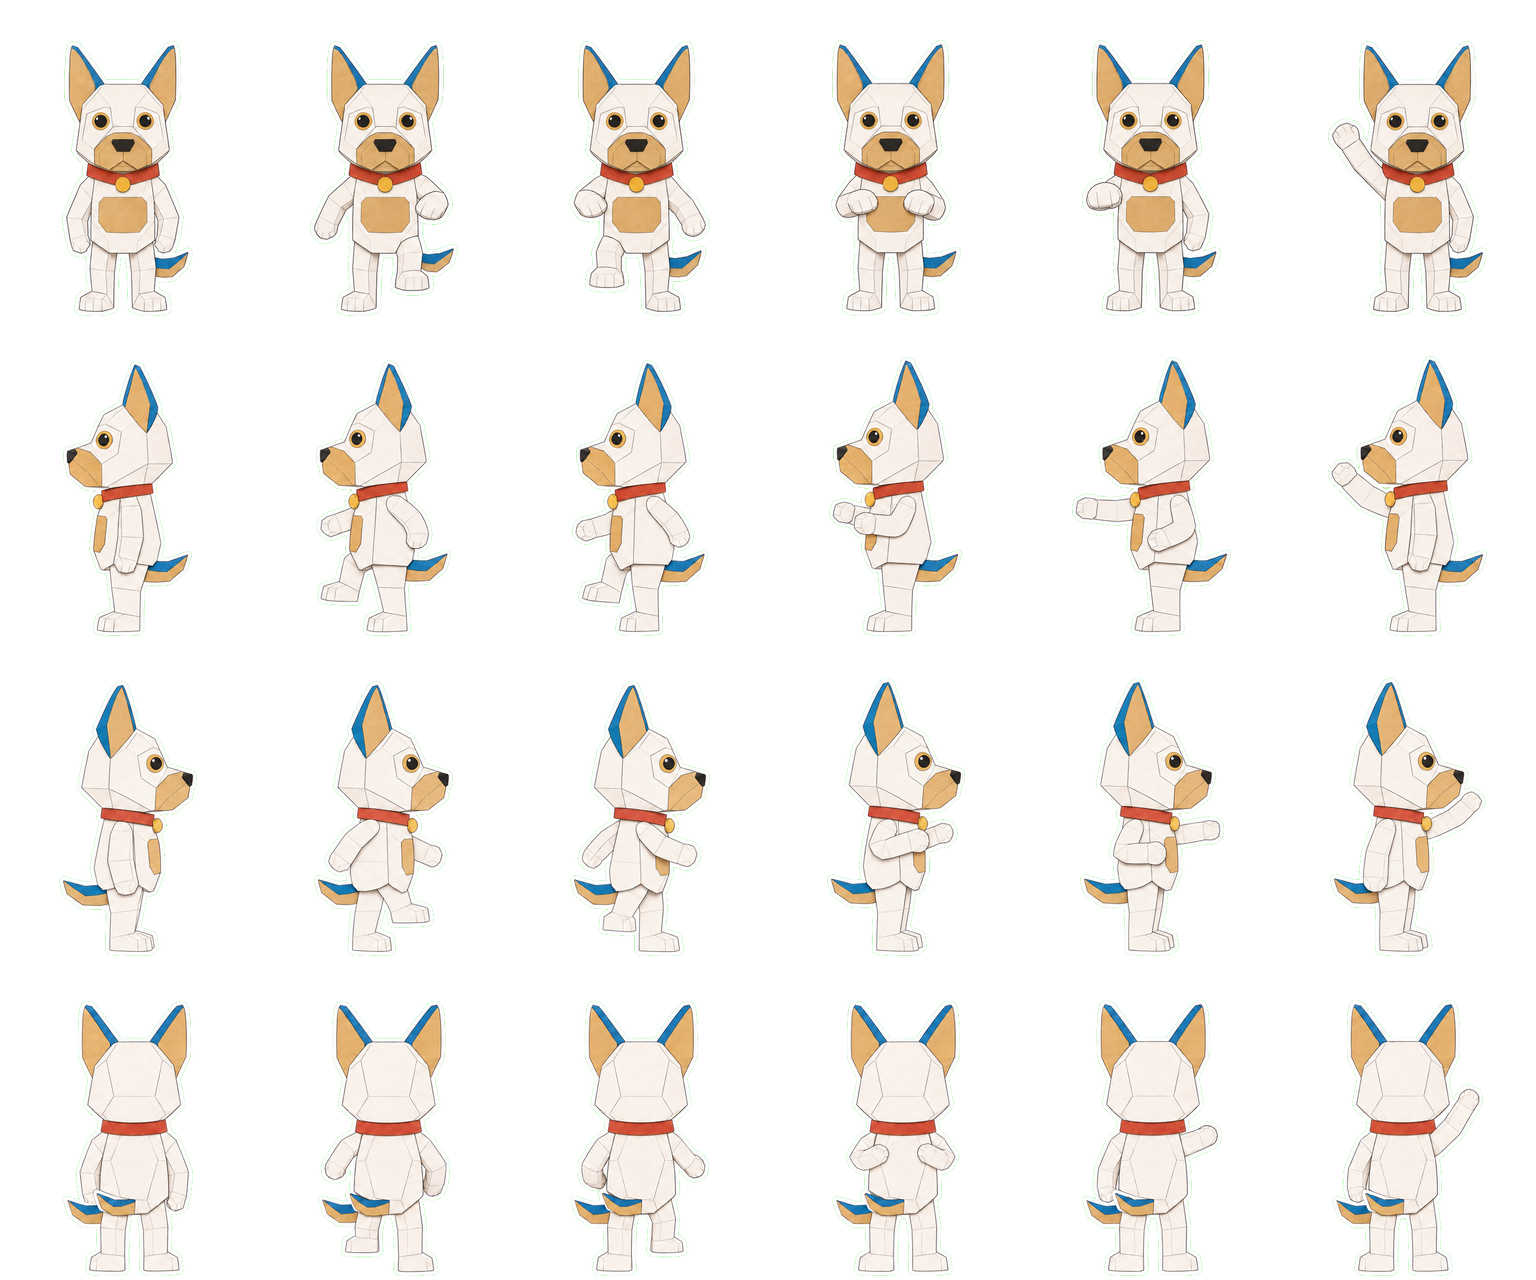
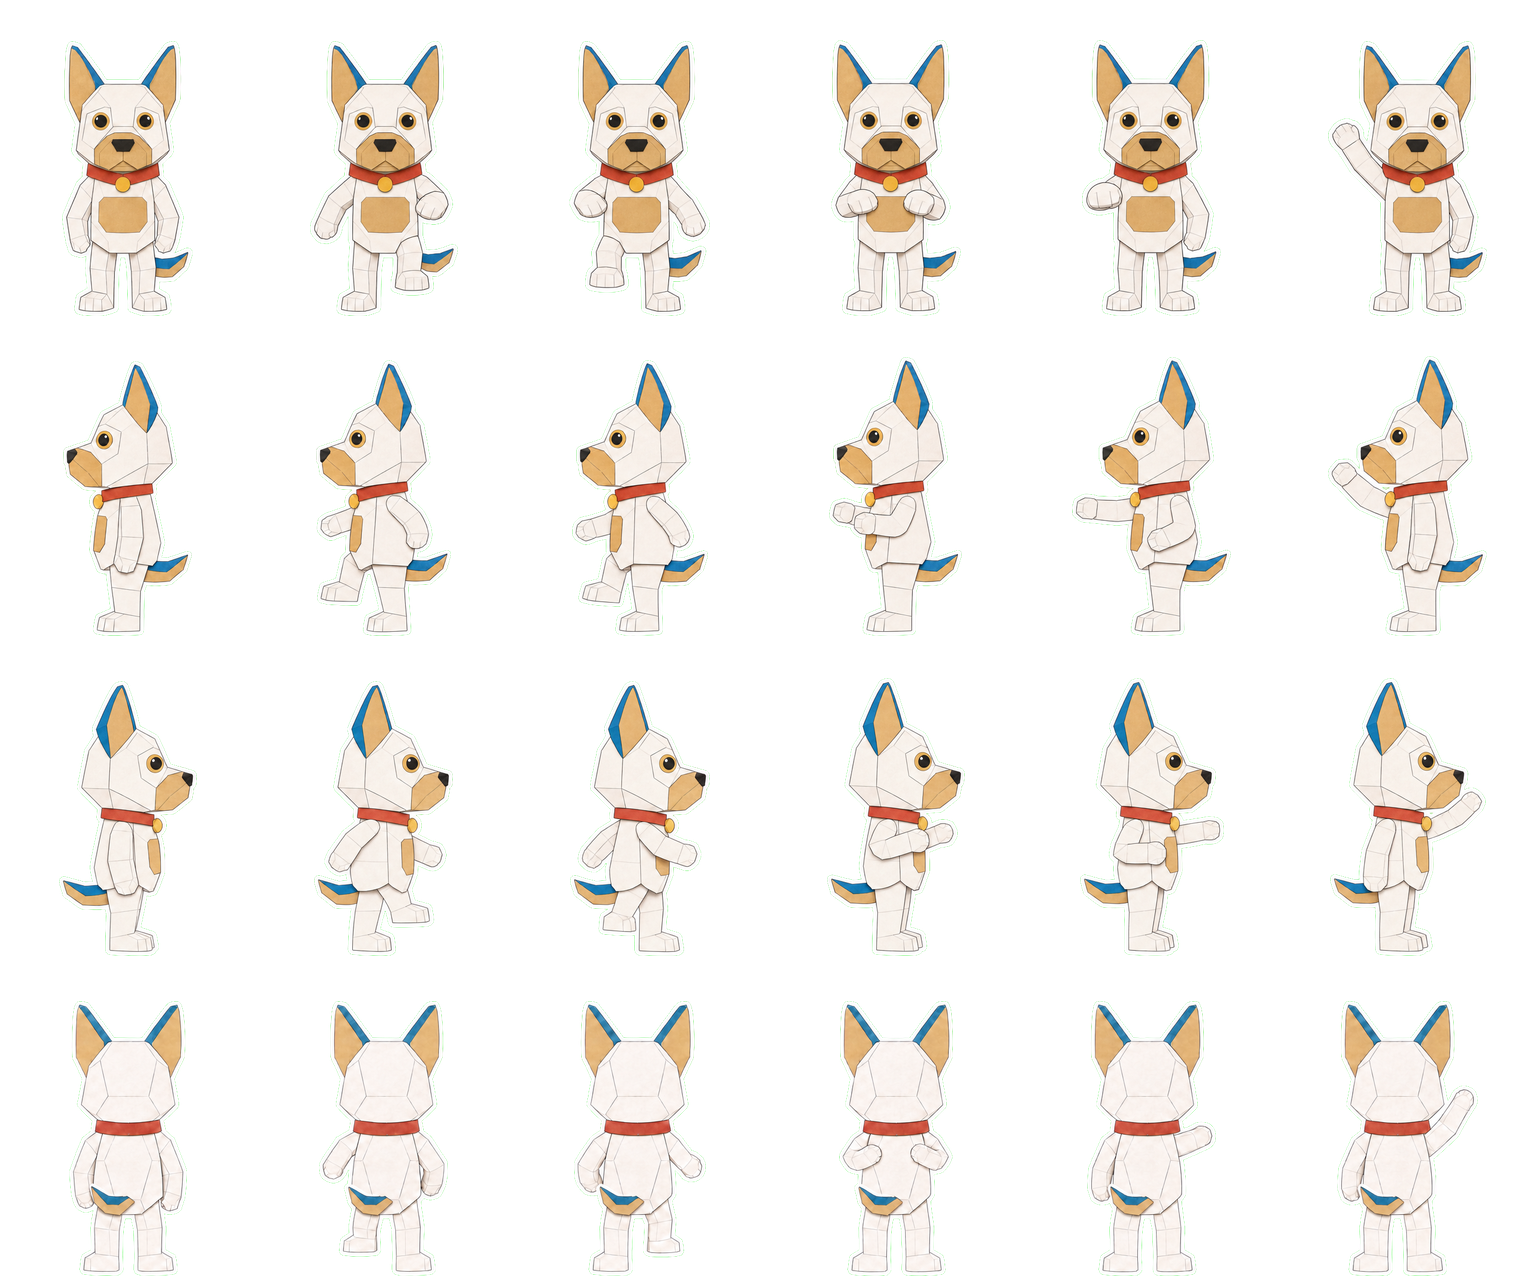
Primepaw: the robot dog's tail starts at the centre of its rump
The back walk sheet showed two tails in every cell, one across the back and one
hanging between the legs. Two GPT Image 2.6 edits of the sheet (seeds 20261139,
then 20261140 and 20261141, the last kept) leave one tail, its base at the centre
of the rump and its length going left across the back, the way the puppy's does.
pet/robot-walk.png is rebuilt from it and uploaded to the canvas as a new asset;
the Pets boards name that upload. The pet README carries the history and both
edit prompts. Canvas v120.

diff --git a/mockups/primepaw/DioramaPets.dc.html b/mockups/primepaw/DioramaPets.dc.html
@@ -200,7 +200,7 @@ const STATES = [{ id: 'roam', t: 'Roam' }, { id: 'working', t: 'Work' }, { id: '
 const onStandee = (fn) => window.PetStandee ? fn(window.PetStandee) : document.addEventListener('pet-standee', () => fn(window.PetStandee), { once: true });
 const FACING = (dx, dy) => Math.abs(dx) >= Math.abs(dy) ? (dx >= 0 ? 'right' : 'left') : (dy >= 0 ? 'down' : 'up');
 const BUBBLE = { working: 'Writing the parser', attention: 'Needs a staging token' };
-const SHEETS = {"robot":{"layout":"sheet","cols":6,"rows":4,"cell":{"w":256,"h":320},"columns":["stand","stomp-left","stomp-right","work-up","work-forward","wave"],"facings":["down","left","right","up"],"sheet":{"w":1536,"h":1280},"standing":0.86,"src":"/_blob/43c1df8444edb3984554c9dc2cd4e435"},"dog":{"layout":"sheet","cols":6,"rows":4,"cell":{"w":256,"h":320},"columns":["stand","stomp-left","stomp-right","work-up","work-forward","wave"],"facings":["down","left","right","up"],"sheet":{"w":1536,"h":1280},"standing":0.86,"src":"/_blob/bd60c38b84f66616f8224e74bdf4d2cf"},"cat":{"layout":"sheet","cols":6,"rows":4,"cell":{"w":256,"h":320},"columns":["stand","stomp-left","stomp-right","work-up","work-forward","wave"],"facings":["down","left","right","up"],"sheet":{"w":1536,"h":1280},"standing":0.86,"src":"/_blob/eea99f7a9ab642aecf06ca931c83d617"}}, WALK_H = 104; // the standing figure's height on the floor
+const SHEETS = {"robot":{"layout":"sheet","cols":6,"rows":4,"cell":{"w":256,"h":320},"columns":["stand","stomp-left","stomp-right","work-up","work-forward","wave"],"facings":["down","left","right","up"],"sheet":{"w":1536,"h":1280},"standing":0.86,"src":"/_blob/9e681d5c64ad1b8833349e0cfec58d6f"},"dog":{"layout":"sheet","cols":6,"rows":4,"cell":{"w":256,"h":320},"columns":["stand","stomp-left","stomp-right","work-up","work-forward","wave"],"facings":["down","left","right","up"],"sheet":{"w":1536,"h":1280},"standing":0.86,"src":"/_blob/bd60c38b84f66616f8224e74bdf4d2cf"},"cat":{"layout":"sheet","cols":6,"rows":4,"cell":{"w":256,"h":320},"columns":["stand","stomp-left","stomp-right","work-up","work-forward","wave"],"facings":["down","left","right","up"],"sheet":{"w":1536,"h":1280},"standing":0.86,"src":"/_blob/eea99f7a9ab642aecf06ca931c83d617"}}, WALK_H = 104; // the standing figure's height on the floor
 const SPEED = 92; // px per second
 // the round: feet points on the floor (x as a share of the floor's width, since the floor is as wide as its column;
 // y in px, since it is always 260 tall), what a walker does when it gets to each corner, and the corner each starts at

diff --git a/mockups/primepaw/DioramaPetsDark.dc.html b/mockups/primepaw/DioramaPetsDark.dc.html
@@ -200,7 +200,7 @@ const STATES = [{ id: 'roam', t: 'Roam' }, { id: 'working', t: 'Work' }, { id: '
 const onStandee = (fn) => window.PetStandee ? fn(window.PetStandee) : document.addEventListener('pet-standee', () => fn(window.PetStandee), { once: true });
 const FACING = (dx, dy) => Math.abs(dx) >= Math.abs(dy) ? (dx >= 0 ? 'right' : 'left') : (dy >= 0 ? 'down' : 'up');
 const BUBBLE = { working: 'Writing the parser', attention: 'Needs a staging token' };
-const SHEETS = {"robot":{"layout":"sheet","cols":6,"rows":4,"cell":{"w":256,"h":320},"columns":["stand","stomp-left","stomp-right","work-up","work-forward","wave"],"facings":["down","left","right","up"],"sheet":{"w":1536,"h":1280},"standing":0.86,"src":"/_blob/43c1df8444edb3984554c9dc2cd4e435"},"dog":{"layout":"sheet","cols":6,"rows":4,"cell":{"w":256,"h":320},"columns":["stand","stomp-left","stomp-right","work-up","work-forward","wave"],"facings":["down","left","right","up"],"sheet":{"w":1536,"h":1280},"standing":0.86,"src":"/_blob/bd60c38b84f66616f8224e74bdf4d2cf"},"cat":{"layout":"sheet","cols":6,"rows":4,"cell":{"w":256,"h":320},"columns":["stand","stomp-left","stomp-right","work-up","work-forward","wave"],"facings":["down","left","right","up"],"sheet":{"w":1536,"h":1280},"standing":0.86,"src":"/_blob/eea99f7a9ab642aecf06ca931c83d617"}}, WALK_H = 104; // the standing figure's height on the floor
+const SHEETS = {"robot":{"layout":"sheet","cols":6,"rows":4,"cell":{"w":256,"h":320},"columns":["stand","stomp-left","stomp-right","work-up","work-forward","wave"],"facings":["down","left","right","up"],"sheet":{"w":1536,"h":1280},"standing":0.86,"src":"/_blob/9e681d5c64ad1b8833349e0cfec58d6f"},"dog":{"layout":"sheet","cols":6,"rows":4,"cell":{"w":256,"h":320},"columns":["stand","stomp-left","stomp-right","work-up","work-forward","wave"],"facings":["down","left","right","up"],"sheet":{"w":1536,"h":1280},"standing":0.86,"src":"/_blob/bd60c38b84f66616f8224e74bdf4d2cf"},"cat":{"layout":"sheet","cols":6,"rows":4,"cell":{"w":256,"h":320},"columns":["stand","stomp-left","stomp-right","work-up","work-forward","wave"],"facings":["down","left","right","up"],"sheet":{"w":1536,"h":1280},"standing":0.86,"src":"/_blob/eea99f7a9ab642aecf06ca931c83d617"}}, WALK_H = 104; // the standing figure's height on the floor
 const SPEED = 92; // px per second
 // the round: feet points on the floor (x as a share of the floor's width, since the floor is as wide as its column;
 // y in px, since it is always 260 tall), what a walker does when it gets to each corner, and the corner each starts at

diff --git a/mockups/primepaw/pet/README.md b/mockups/primepaw/pet/README.md
@@ -137,8 +137,13 @@ ring, a badge (seeds 20261123 and 20261125); the third asked for the sticker cut
 with no ring (seed 20261126) and was kept. The body is seed 20261124. The turnaround (seed 20261127) drew
 the back's tail hanging down from the rump; an edit (seed 20261134) raised it only a little, and that
 version is the source. The six moods (seeds 20261128 to 20261133, idle to ask) and the four walk sheets
-(20261135 to 20261138) were all first seeds. Its peeking frame is the tallest of the three characters
-because the ears stand up and the error and ask marks sit above them.
+(20261135 to 20261138) were all first seeds, until the back sheet showed two tails in every cell,
+the one lying across the back and a second hanging between the legs, the turnaround's old tail come
+back; it took two edits of that sheet to land the tail (the prompts below): the first (seed
+20261139) took the hanging one away but left the other starting at the hip, at the side of the body,
+and the second (seeds 20261140 and 20261141, the second kept) moved its base to the centre of the
+rump, where the puppy's is; that one is the source now. Its peeking frame is the tallest of the
+three characters because the ears stand up and the error and ask marks sit above them.
 
 ## The prompts
 
@@ -269,7 +274,7 @@ start.
 
 **The walk sheets** (1536 by 1024, GPT Image 2.6, the turnaround first and the body second, one per
 facing; seeds 20261108 to 20261111 for the puppy, 20261112 to 20261115 for the cat and 20261135 to 20261138 for the robot dog, down, left, right,
-up, every first seed kept). The front: "The first reference image is a character turnaround of the paper cut-out a friendly floppy-eared puppy: its front, its left side, its back and its right side. The second reference image is the same character from the front. Draw the character exactly as the turnaround's first figure, the front shows it (the same cream paper face, kraft brown floppy ears and eye patch, red collar with its tag, pink cheeks, pen-ink features, the white die-cut sticker border), as a stop-motion sprite sheet: a grid of 3 columns and 2 rows, 6 cells of equal size, on a solid flat bright green (#00FF00) background, with no grid lines, no borders, no labels and no text. The 6 cells read left to right along the top row and then along the bottom row. In every cell the character is the same drawing at the same size as in the turnaround, seen straight from the front, facing the viewer, its body upright and square to the viewer in every cell, never turning, its feet on the same ground line, its head, body, ears and tail exactly alike from cell to cell, so that the six cells play as one animation of one figure. The 6 cells: 1. standing still with both paws relaxed at its sides, both feet planted, exactly like the turnaround's first figure, the front; 2. marching on the spot, a stomp: its right foot stays planted flat on the ground and its left foot is lifted a little way straight up off the ground, the foot kept flat and level exactly as it is when standing, the leg a little shorter and bent only a little at the knee, staying directly under the body, the sole never showing, the body a touch higher, the arms swinging, the left paw a little forward and the right a little back; 3. the other stomp: its left foot planted flat and its right foot lifted flat the same way, the arms swinging the other way; 4. working, both paws raised up in front of its chest as if typing on a keyboard; 5. working, one paw pushed forward as if pressing a button; 6. waving hello with one paw raised high above its head. Flat paper, no shadows, no gradients, like a paper puppet moved between photographs."
+up, every first seed kept but the robot dog's back, edited twice, below). The front: "The first reference image is a character turnaround of the paper cut-out a friendly floppy-eared puppy: its front, its left side, its back and its right side. The second reference image is the same character from the front. Draw the character exactly as the turnaround's first figure, the front shows it (the same cream paper face, kraft brown floppy ears and eye patch, red collar with its tag, pink cheeks, pen-ink features, the white die-cut sticker border), as a stop-motion sprite sheet: a grid of 3 columns and 2 rows, 6 cells of equal size, on a solid flat bright green (#00FF00) background, with no grid lines, no borders, no labels and no text. The 6 cells read left to right along the top row and then along the bottom row. In every cell the character is the same drawing at the same size as in the turnaround, seen straight from the front, facing the viewer, its body upright and square to the viewer in every cell, never turning, its feet on the same ground line, its head, body, ears and tail exactly alike from cell to cell, so that the six cells play as one animation of one figure. The 6 cells: 1. standing still with both paws relaxed at its sides, both feet planted, exactly like the turnaround's first figure, the front; 2. marching on the spot, a stomp: its right foot stays planted flat on the ground and its left foot is lifted a little way straight up off the ground, the foot kept flat and level exactly as it is when standing, the leg a little shorter and bent only a little at the knee, staying directly under the body, the sole never showing, the body a touch higher, the arms swinging, the left paw a little forward and the right a little back; 3. the other stomp: its left foot planted flat and its right foot lifted flat the same way, the arms swinging the other way; 4. working, both paws raised up in front of its chest as if typing on a keyboard; 5. working, one paw pushed forward as if pressing a button; 6. waving hello with one paw raised high above its head. Flat paper, no shadows, no gradients, like a paper puppet moved between photographs."
 
 The other three change the figure the prompt points at and the facing clause: the left side ("second
 figure, the left side"; "from the side in strict profile, turned to face the left edge of the picture, so
@@ -283,3 +288,5 @@ and square to the viewer, never turning; in cell 4 only its elbows show at its s
 pushed paw is out of sight in front of it; in cells 2 and 3 the lifted foot is simply raised flat a little
 off the ground directly under the body, the back of its heel toward the viewer, its sole never showing,
 never a leg angled out to the side").
+
+**The robot dog's back sheet** came back with two tails in every cell, the one lying across the back and a second hanging between the legs, and it took two edits of it (1536 by 1024, GPT Image 2.6, the sheet itself as the first reference and the body as the second) to land the tail, both opening the way the turnaround's edit did: "The first reference image is a stop-motion sprite sheet of a paper cut-out friendly angular robot hound seen from directly behind, facing straight away from the viewer: a grid of 3 columns and 2 rows, 6 cells of equal size, on a solid flat bright green (#00FF00) background. The second reference image is the same character from the front." The first edit (seed 20261139) took the hanging tail away: "...Reproduce the sprite sheet exactly as it is, every figure the same size and in the same place in its cell, in the same pose, with the same colours, the same pen-ink outlines, the same pen-drawn panel lines, the same faint paper grain and the same white die-cut sticker border around each figure, on the same solid flat bright green background with no grid lines, no borders, no labels and no text, changing only one thing, the same way in every one of the six cells: the robot hound has exactly one tail. Right now each figure shows two tails. The second tail, the short one hanging straight down from the middle of the bottom of its back between its legs, is removed, and that spot becomes plain sheet-white paper back panel (#fbf7ee) with the same pen-drawn panel lines, the two legs meeting the body as before. The one tail that stays is the one already sticking out sideways to the left of the picture: its short pointed kraft brown paper tail (#d9bc86) with its blue tip, starting at the centre of its rump at the bottom of its back right where the two legs meet the body and sticking out across its back to the left with its tip up near the left edge of its body, the whole tail visible, the same size, shape and colours as it is now. Nothing else about any cell changes: the head, the backs of the ears with their blue tips, the back of the red collar, the paws, the feet and each cell's pose stay exactly as they are. Flat paper, no shadows, no gradients, not 3D." It did, but the tail it kept started at the hip, at the side of the body, not at the centre the words asked for. The second (seeds 20261140 and 20261141) moved it: "...changing only one thing, the same way in every one of the six cells: where the tail starts. Right now the tail sticks out from the left hip, from the side of the body. Instead, seen from directly behind, the robot hound's short pointed kraft brown paper tail (#d9bc86) with its blue tip starts at the centre of its rump, in the middle of the bottom of its back right where the two legs meet the body, and sticks out sideways to the left of the picture, lying across the sheet-white back with its tip up near the left edge of the body. The whole tail is visible from behind: its base at the centre of the rump, its length going to the left across the back, its tip pointing up at the left, the same kraft brown paper with the same blue tip, the same pen outline and about the same size as the tail the front view shows peeking out at its hip, which is this same tail seen from the other side. It does not point straight up, does not hang down between the legs and does not start at the side of the body: it starts at the centre and goes to the left. The side of the body where the tail used to stick out becomes plain sheet-white paper (#fbf7ee) with the same panel lines, the white die-cut border following the body's outline there. Nothing else about any cell changes: the head, the backs of the ears with their blue tips, the back of the red collar, the paws, the feet and each cell's pose stay exactly as they are. Flat paper, no shadows, no gradients, not 3D." The first of that pair put the tail at the centre but hanging down between the legs; the second has it starting at the centre and sticking out to the left, and is the sheet in use.
